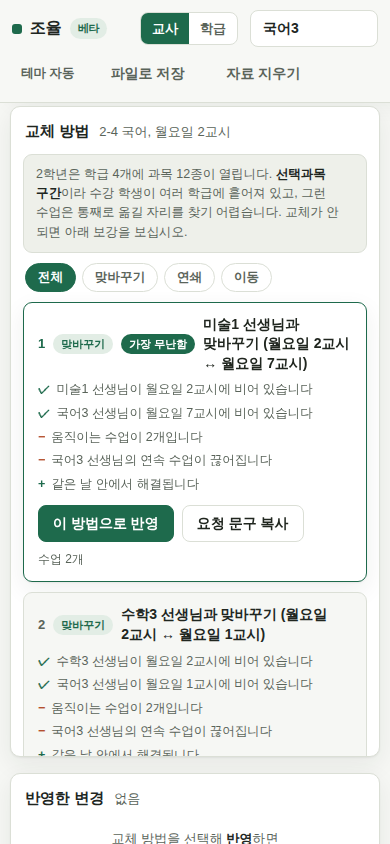
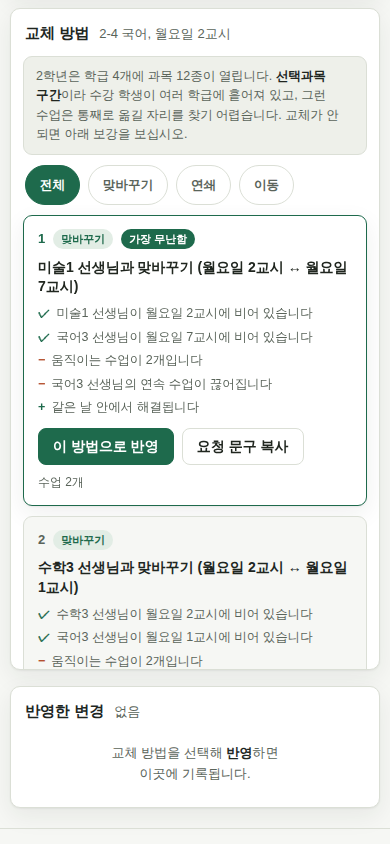
폰에서 화면 전체가 옆으로 밀리던 것을 고친다
390px 폰에서 문서 폭이 548px 이었다. 격자만 넘겨 보면 되는데 머리글과 카드와 바닥글까지
함께 밀려서, 금요일을 보려면 화면 전체를 옆으로 끌어야 했다.

원인은 .work 의 align-items: flex-start 다. 세로로 쌓을 때 그 값은 칸을 채우지 말고
내용 크기로 줄이라는 뜻이 되어, 격자의 min-width 가 그대로 감싼 칸의 폭이 되었다.
CSS 를 읽어서는 안 보인다. overflow-x: auto 도 min-width: 0 도 제자리에 있었고,
두 줄을 따로 보면 둘 다 맞다.

세로로 쌓을 때는 칸을 채우게 하고 격자를 감싼 칸에 폭을 못 박았다. 격자는 .grid-scroll
안에서 저 혼자 넘어간다. 390, 360, 320 세 폭에서 문서가 화면 폭에 맞는다.

함께 고친 것.

머리글을 폰에서 화면에 붙여 두지 않는다. 단추가 세 줄로 접혀 157px 이 되었고 664px
화면의 24% 였다. 붙여 두면 그 몫이 계속 남아 시간표와 추천이 볼 자리를 잃는다.
교사와 학급을 바꾸는 일은 처음 한 번이고 그 뒤로는 격자와 추천만 오간다.

손가락으로 누르는 곳의 높이를 40px 로 올렸다. 교사와 학급 가르기와 테마 단추가 31px,
요일 단추가 29px, 갈래 고르기 단추가 24px 였다.

후보 제목을 배지 아래로 내려 통째로 쓴다. 배지 옆에 두니 남은 폭이 화면 절반이라
세 줄로 접히고 "↔ 월요일 2교시)" 만 오른쪽에 떨어져 남았다.

빈 화면 문구에서 방향을 뻈다. 폰에서는 시간표가 왼쪽이 아니라 위에 온다.

눈으로만 지키다 놓친 것이라 검사를 걸었다. smoke 에서 폭 390, 360, 320 마다 문서 폭이
화면 폭과 같은지, 격자가 자기 칸 안에서 넘어가는지, 누르는 것이 36px 이상인지를 잰다.

둘째 것을 함께 재는 것이 중요하다. 문서 폭만 보면 격자를 아예 못 넘기게 만들어도
통과하는데 그러면 금요일을 볼 방법이 없어진다.

고친 뒤 되돌려서 검사가 실제로 잡는지 확인했다. 문서 548px 과 "격자 자기 칸에서 넘김
아니오" 가 함께 떴다. 누르기 검사는 넣자마자 갈래 고르기 단추 4개를 잡아냈다.
추천이 뜬 뒤에만 나오는 단추라 눈으로 보던 때는 지나쳤던 자리다.

diff --git a/apps/web/app/globals.css b/apps/web/app/globals.css
@@ -181,9 +181,20 @@ select, input { font: inherit; color: inherit; }
 .work { flex: 1; display: flex; gap: 16px; padding: 16px 20px 28px; align-items: flex-start; }
 .grid-wrap { flex: 1.6; min-width: 0; }
 .panel-wrap { flex: 1; min-width: 300px; max-width: 400px; position: sticky; top: 66px; }
+/*
+ * 좁은 화면에서는 위아래로 쌓는다.
+ *
+ * align-items: flex-start 를 그대로 두면 안 된다. 세로로 쌓을 때 그 값은 칸을 채우지 않고
+ * 내용 크기로 줄이라는 뜻이 되어, 격자의 min-width 가 그대로 폭이 된다.
+ * 그러면 격자만 옆으로 미는 것이 아니라 머리글과 카드와 바닥글까지 함께 밀린다.
+ * 실측에서 390px 폰의 문서 폭이 548px 이었다. 금요일을 보려면 화면 전체를 옆으로 끌어야 했다.
+ * 격자는 .grid-scroll 안에서 저 혼자 넘겨 보는 것이 맞다.
+ */
 @media (max-width: 900px) {
-  .work { flex-direction: column; }
-  .panel-wrap { position: static; max-width: none; width: 100%; }
+  .work { flex-direction: column; align-items: stretch; }
+  .grid-wrap, .panel-wrap, .side {
+    width: 100%; min-width: 0; max-width: none; position: static;
+  }
 }
 
 .card { background: var(--surface); border: 1px solid var(--line); border-radius: var(--radius); box-shadow: var(--shadow); }
@@ -487,13 +498,30 @@ button.cell.empty:hover { border-color: var(--muted); }
 /* 좁은 화면 정비 */
 .tt-period, .tt-head.corner { position: sticky; left: 0; z-index: 2; background: var(--surface); }
 @media (max-width: 640px) {
-  .topbar { flex-wrap: wrap; row-gap: 8px; padding: 10px 12px; }
+  /*
+   * 폰에서는 머리글을 화면에 붙여 두지 않는다.
+   *
+   * 단추가 세 줄로 접히면서 높이가 157px 이 되었다. 664px 화면의 24% 다.
+   * 붙여 두면 그 몫이 계속 남아 시간표와 추천이 볼 자리를 잃는다.
+   * 교사와 학급을 바꾸는 일은 처음 한 번이고, 그 뒤로는 격자와 추천만 오간다.
+   * 그래서 머리글은 위로 올려 두고 화면을 내용에 넘긴다.
+   */
+  .topbar { flex-wrap: wrap; row-gap: 8px; padding: 10px 12px; position: static; }
   .school-chip { display: none; }
   .wordmark { font-size: 16px; }
-  .seg button { padding: 5px 11px; font-size: 13px; }
-  .select { max-width: 132px; }
+  /*
+   * 손가락으로 누르는 곳은 좁혀서는 안 되는 것이 있다.
+   * 폰에서 재어 보니 교사/학급 가르기와 테마 단추가 31px, 요일 단추가 29px 였다.
+   * 글씨는 줄여도 되지만 누르는 높이는 40px 아래로 내리지 않는다.
+   */
+  .seg button { padding: 9px 13px; font-size: 13px; min-height: 40px; }
+  .select { max-width: 132px; min-height: 40px; }
   .select.combo { min-width: 0; max-width: 128px; }
-  .theme-btn { padding: 4px 8px; font-size: 12.5px; }
+  .theme-btn { padding: 9px 11px; font-size: 12.5px; min-height: 40px; }
+  .offday { min-height: 40px; min-width: 40px; }
+  .wordmark { min-height: 40px; }
+  /* 요일 머리글은 누르면 그날 전체가 선택된다. 격자 안이라도 누르는 곳이다 */
+  .tt-head.day-btn { min-height: 40px; }
   .work { padding: 10px 10px 20px; gap: 12px; }
   .grid-scroll { padding: 10px 8px 12px; }
   .tt-grid { min-width: 500px; }
@@ -502,12 +530,21 @@ button.cell.empty:hover { border-color: var(--muted); }
   .card-head { padding: 12px 14px 0; flex-wrap: wrap; }
   .cand-foot { flex-wrap: wrap; }
   .cand-score { margin-left: 0; width: 100%; }
+  /*
+   * 후보 제목을 배지 옆에 두면 남은 폭이 화면 절반이라 세 줄로 접히고
+   * "↔ 월요일 2교시)" 만 오른쪽에 떨어져 남는다. 배지 아래로 내려 통째로 쓴다.
+   */
+  .cand-title { width: 100%; flex: none; text-align: left; }
+  /* 갈래 고르기 단추. 추천이 뜬 뒤에만 나오는데 24px 이라 손가락으로 누르기 어렵다 */
+  .chip { min-height: 40px; padding: 3px 14px; }
+  .chips { gap: 8px; }
   .toast { bottom: 14px; max-width: 92vw; text-align: center; }
   .landing { padding: 32px 16px; }
   .hero { gap: 0; }
   .hero-art { display: none; }
   .steps { grid-template-columns: 1fr; gap: 8px; }
-  .side { scroll-margin-top: 106px; }
+  /* 머리글이 더 이상 화면에 붙어 있지 않으므로 가릴 것을 감안하지 않는다 */
+  .side { scroll-margin-top: 8px; }
   .dropzone { padding: 20px 14px; }
   .foot { font-size: 11.5px; gap: 8px; }
 }

diff --git a/apps/web/components/Panel.tsx b/apps/web/components/Panel.tsx
@@ -135,7 +135,8 @@ export function Panel({
       )}
       {!result ? (
         <div className="panel-empty">
-          왼쪽 시간표에서 <b>비울 수업</b>을 누르십시오.
+          {/* 좁은 화면에서는 시간표가 왼쪽이 아니라 위에 온다. 방향을 적지 않는다. */}
+          시간표에서 <b>비울 수업</b>을 누르십시오.
           <br />
           가능한 교체 방법을 이 자리에 정리해 드립니다.
           <br />

diff --git a/04-operations.md b/04-operations.md
@@ -17,7 +17,7 @@ GitHub (commet/timeswap, main)
 서버가 없다. Next.js 정적 내보내기라 결과는 HTML, CSS, JS 뿐이고 CDN 이 그대로 내보낸다.
 데이터베이스도, 로그인도, 우리 쪽 API 도 없다. 고장 날 수 있는 부품이 그만큼 적다.
 
-### Vercel 설정을 두 벌 두는 이유
+## Vercel 설정을 두 벌 두는 이유
 
 Vercel 의 루트 디렉터리 설정은 대시보드에 있고 저장소가 정할 수 없다.
 어느 쪽으로 잡혀 있어도 맞게 돌도록 설정 파일을 두 곳에 같은 내용으로 둔다.
@@ -88,6 +88,31 @@ CSP 는 설정만 보고는 앱이 도는지 알 수 없다. 그래서 `scripts/
 - 브라우저는 판이 같으면 다시 내려받지 않는다. `playwright` 판을 열쇠로 저장분을 쓴다.
   같은 판에서는 의존 꾸러미만 다시 깐다.
 - `npm` 저장분은 `setup-node` 가 맡는다.
+
+### 폰에서 깨지는 것은 소스로 안 잡힌다
+
+가로로 밀리는 문제를 눈으로만 지키다 놓쳤다. 격자를 감싼 칸이 세로로 쌓일 때 내용 크기로
+줄어들어 390px 화면에서 문서 폭이 548px 이 되었다. 격자만 넘겨 보면 되는데 머리글과
+카드와 바닥글까지 함께 밀려서, 금요일을 보려면 화면 전체를 옆으로 끌어야 했다.
+
+CSS 를 읽어서는 안 보인다. `overflow-x: auto` 가 격자 칸에 제대로 걸려 있었고,
+`min-width: 0` 도 있었다. 세로로 쌓을 때 `align-items: flex-start` 의 뜻이 달라지는 것이
+원인이라 두 줄을 따로 보면 둘 다 맞다.
+
+그래서 `npm run smoke` 에 폭 390, 360, 320 세 가지로 두 가지를 잰다.
+
+| 재는 것 | 통과 기준 |
+|---|---|
+| 문서 폭 | 화면 폭과 같다. 크면 화면 전체가 밀린다 |
+| 격자 칸 | 자기 안에서 넘어간다. 안 넘어가면 넘침이 밖으로 샌 것이다 |
+| 누르는 것의 높이 | 36px 이상 |
+
+두 번째를 함께 재는 것이 중요하다. 첫 번째만 보면 격자를 아예 못 넘기게 만들어도 통과한다.
+그러면 금요일을 볼 방법이 없어진다.
+
+고친 뒤 되돌려서 검사가 실제로 잡는지 확인했다. 문서 548px 과 "격자 자기 칸에서 넘김
+아니오" 가 함께 떴다. 누르기 검사는 넣자마자 갈래 고르기 단추 4개를 잡아냈다.
+추천이 뜬 뒤에만 나오는 단추라 눈으로 보던 때는 지나쳤던 자리다.
 
 ### 정적 내보내기 사고를 다시 내지 않으려고
 
